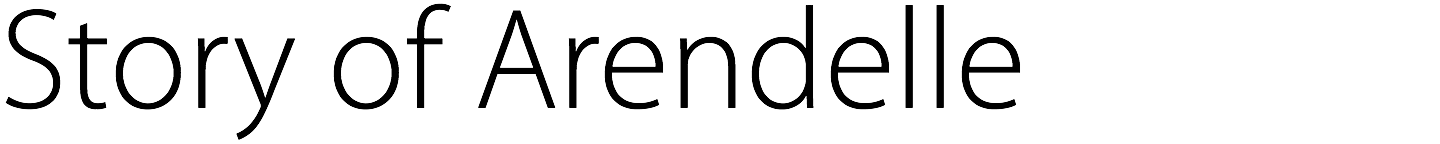
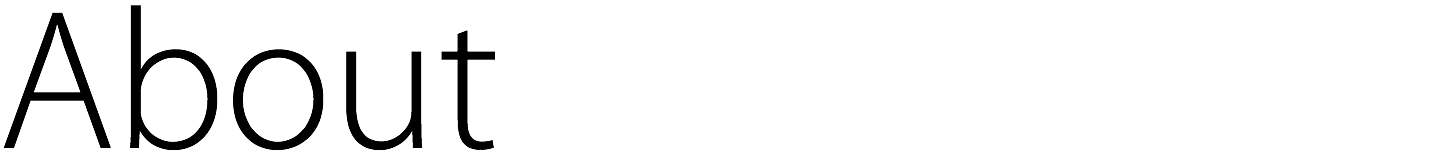
just text + google analytics

Changed region(s): [[0.0, 0.0278, 0.7188, 0.9722]]

diff --git a/story/index.html b/story/index.html
@@ -24,6 +24,15 @@
     <link rel="apple-touch-icon-precomposed" sizes="144x144" href="../public/apple-touch-icon-precomposed.png">
     <link rel="shortcut icon" href="../public/favicon.ico">
 
+    <script>
+      (function(i,s,o,g,r,a,m){i['GoogleAnalyticsObject']=r;i[r]=i[r]||function(){
+      (i[r].q=i[r].q||[]).push(arguments)},i[r].l=1*new Date();a=s.createElement(o),
+      m=s.getElementsByTagName(o)[0];a.async=1;a.src=g;m.parentNode.insertBefore(a,m)
+      })(window,document,'script','//www.google-analytics.com/analytics.js','ga');
+      ga('create', 'UA-58802140-1', 'auto');
+      ga('send', 'pageview');
+    </script>
+
   </head>
   
   <body>
@@ -31,6 +40,11 @@
     <!-- PAGE'S START -->
 
     <div class="container content">
+
+      <!-- About-->
+      <br><br><br><br>
+      <img src="title.png"><hr>
+      <p>Arendelle Project is a community with a mission: To maintain and develop the Arendelle Language and it’s sub-projects. We have created Arendelle Language and our very own education system here. We also research on possibilities of Arendelle and the areas we can move it to. This is Arendelle Project!</p>
 
       <!-- Earth Friendly -->
       <br><br><br><br>

diff --git a/404.html b/404.html
@@ -17,6 +17,15 @@
     <!-- Icons -->
     <link rel="apple-touch-icon-precomposed" sizes="144x144" href="http://web.arendelle.org/public/apple-touch-icon-precomposed.png">
     <link rel="shortcut icon" href="http://web.arendelle.org/public/favicon.ico">
+
+    <script>
+      (function(i,s,o,g,r,a,m){i['GoogleAnalyticsObject']=r;i[r]=i[r]||function(){
+      (i[r].q=i[r].q||[]).push(arguments)},i[r].l=1*new Date();a=s.createElement(o),
+      m=s.getElementsByTagName(o)[0];a.async=1;a.src=g;m.parentNode.insertBefore(a,m)
+      })(window,document,'script','//www.google-analytics.com/analytics.js','ga');
+      ga('create', 'UA-58802140-1', 'auto');
+      ga('send', 'pageview');
+    </script>
   </head>
   
   <body>

diff --git a/developer/index.html b/developer/index.html
@@ -17,6 +17,15 @@
     <!-- Icons -->
     <link rel="apple-touch-icon-precomposed" sizes="144x144" href="../public/apple-touch-icon-precomposed.png">
     <link rel="shortcut icon" href="../public/favicon.ico">
+
+    <script>
+      (function(i,s,o,g,r,a,m){i['GoogleAnalyticsObject']=r;i[r]=i[r]||function(){
+      (i[r].q=i[r].q||[]).push(arguments)},i[r].l=1*new Date();a=s.createElement(o),
+      m=s.getElementsByTagName(o)[0];a.async=1;a.src=g;m.parentNode.insertBefore(a,m)
+      })(window,document,'script','//www.google-analytics.com/analytics.js','ga');
+      ga('create', 'UA-58802140-1', 'auto');
+      ga('send', 'pageview');
+    </script>
   </head>
   
   <body>

diff --git a/download/index.html b/download/index.html
@@ -17,6 +17,14 @@
     <!-- Icons -->
     <link rel="apple-touch-icon-precomposed" sizes="144x144" href="../public/apple-touch-icon-precomposed.png">
     <link rel="shortcut icon" href="../public/favicon.ico">
+    <script>
+      (function(i,s,o,g,r,a,m){i['GoogleAnalyticsObject']=r;i[r]=i[r]||function(){
+      (i[r].q=i[r].q||[]).push(arguments)},i[r].l=1*new Date();a=s.createElement(o),
+      m=s.getElementsByTagName(o)[0];a.async=1;a.src=g;m.parentNode.insertBefore(a,m)
+      })(window,document,'script','//www.google-analytics.com/analytics.js','ga');
+      ga('create', 'UA-58802140-1', 'auto');
+      ga('send', 'pageview');
+    </script>
   </head>
   
   <body>

diff --git a/education/index.html b/education/index.html
@@ -24,6 +24,15 @@
     <link rel="apple-touch-icon-precomposed" sizes="144x144" href="../public/apple-touch-icon-precomposed.png">
     <link rel="shortcut icon" href="../public/favicon.ico">
 
+    <script>
+      (function(i,s,o,g,r,a,m){i['GoogleAnalyticsObject']=r;i[r]=i[r]||function(){
+      (i[r].q=i[r].q||[]).push(arguments)},i[r].l=1*new Date();a=s.createElement(o),
+      m=s.getElementsByTagName(o)[0];a.async=1;a.src=g;m.parentNode.insertBefore(a,m)
+      })(window,document,'script','//www.google-analytics.com/analytics.js','ga');
+      ga('create', 'UA-58802140-1', 'auto');
+      ga('send', 'pageview');
+    </script>
+
   </head>
   
   <body>

diff --git a/index.html b/index.html
@@ -30,6 +30,15 @@
       #right_col { float:left; width:11.4rem; }
     </style>
 
+    <script>
+      (function(i,s,o,g,r,a,m){i['GoogleAnalyticsObject']=r;i[r]=i[r]||function(){
+      (i[r].q=i[r].q||[]).push(arguments)},i[r].l=1*new Date();a=s.createElement(o),
+      m=s.getElementsByTagName(o)[0];a.async=1;a.src=g;m.parentNode.insertBefore(a,m)
+      })(window,document,'script','//www.google-analytics.com/analytics.js','ga');
+      ga('create', 'UA-58802140-1', 'auto');
+      ga('send', 'pageview');
+    </script>
+
     <script type="text/javascript">
       // Enables responsitive view for some of the floating tags
       function sizeFixer () {
